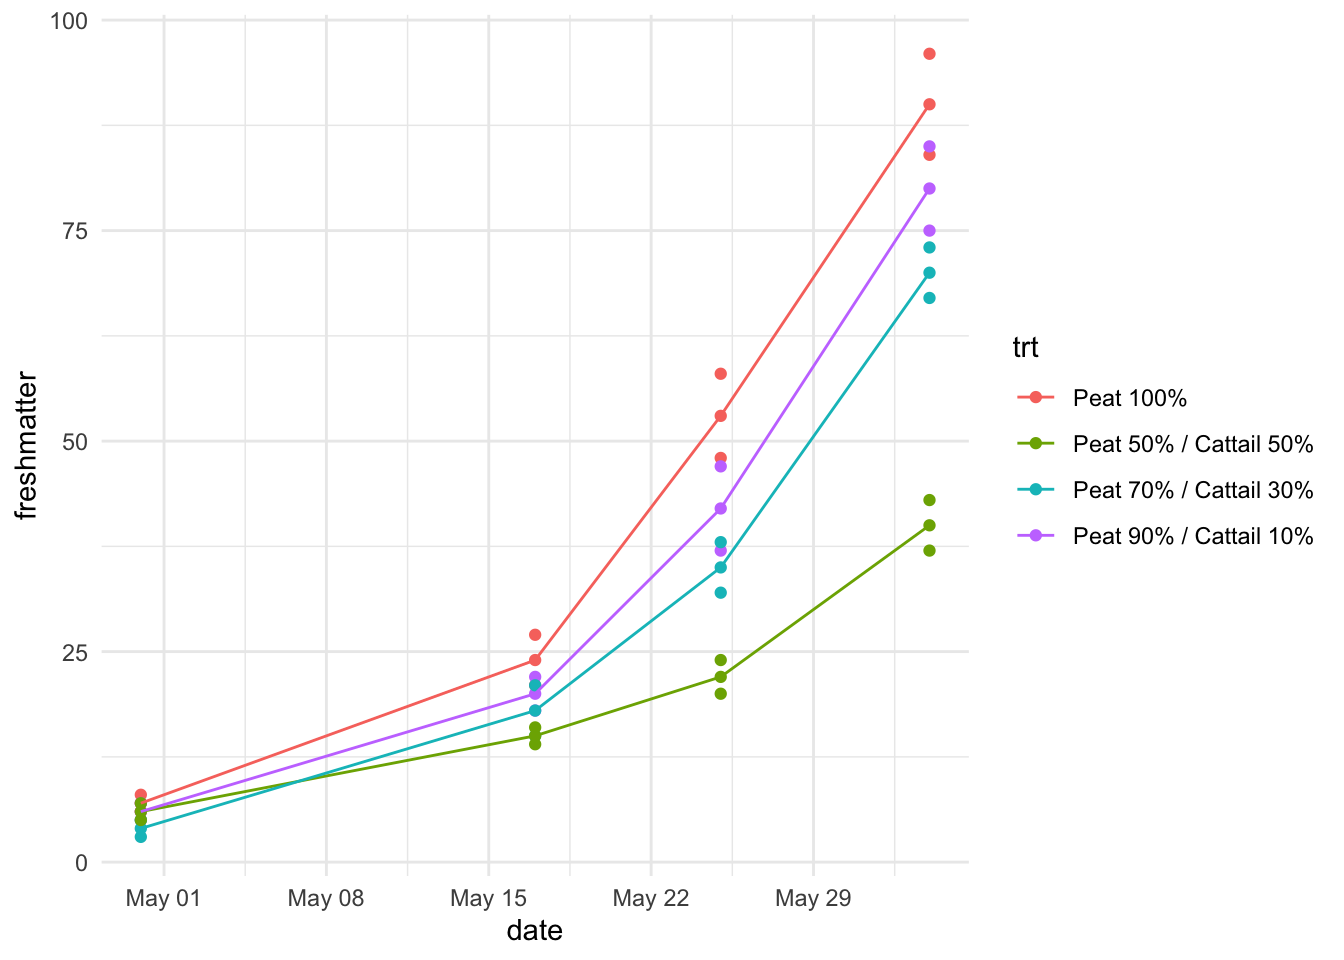
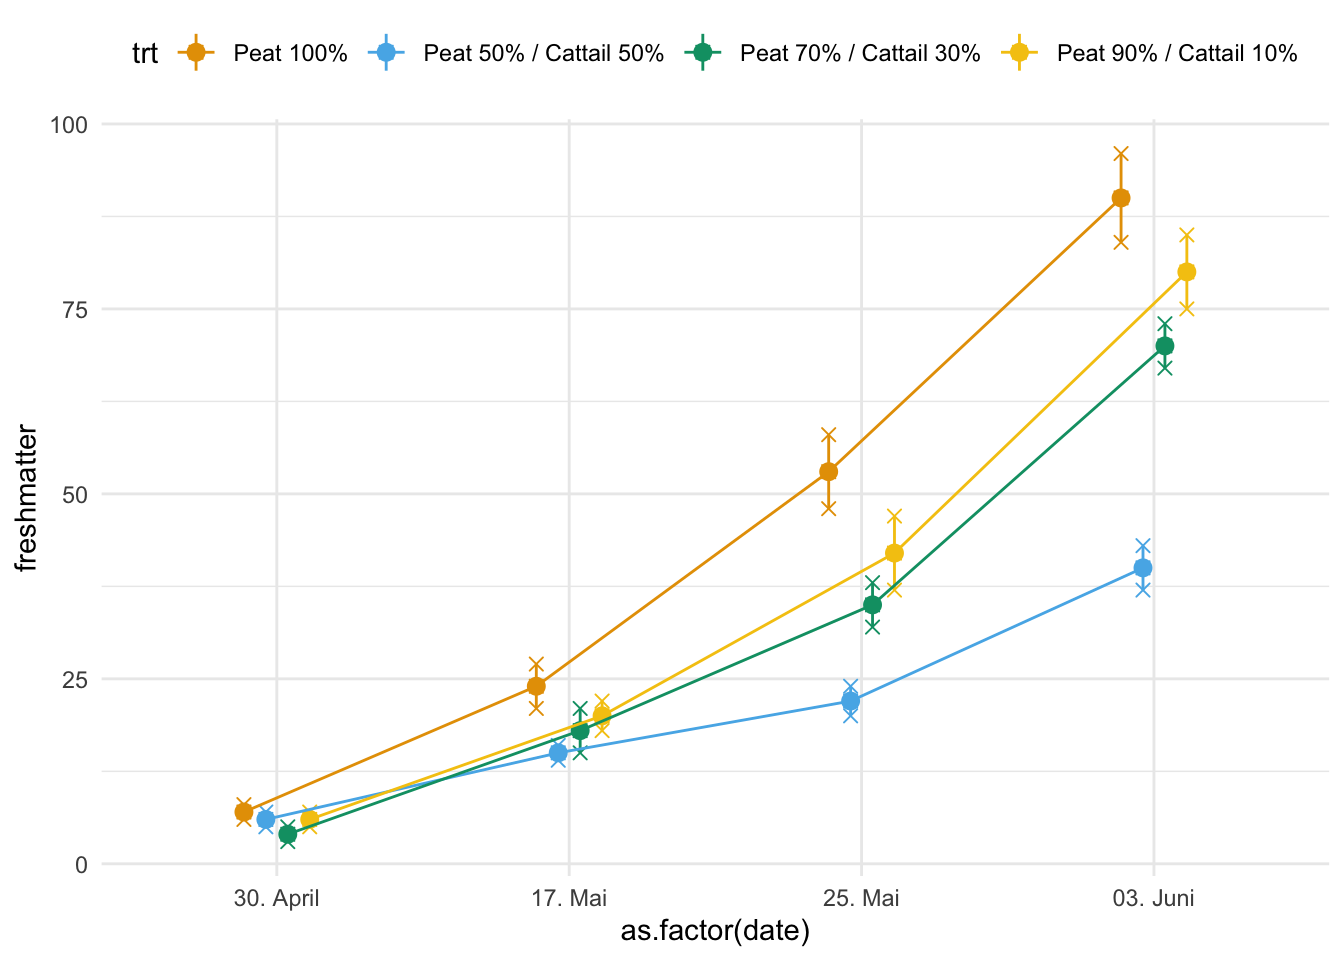
added example

diff --git a/docs/app-spielecke.html b/docs/app-spielecke.html
@@ -843,7 +843,7 @@ window.Quarto = {
 </header>
 
 
-<p><em>Letzte Änderung am 13. March 2024 um 11:25:23</em></p>
+<p><em>Letzte Änderung am 13. March 2024 um 12:00:34</em></p>
 <blockquote class="blockquote">
 <p><em>“Denn, um es endlich auf einmal herauszusagen, der Mensch spielt nur, wo er in voller Bedeutung des Worts Mensch ist, und er ist nur da ganz Mensch, wo er spielt.” — Friedrich Schiller</em></p>
 </blockquote>
@@ -941,7 +941,7 @@ c         |       89.45</code></pre>
 <div class="sourceCode cell-code" id="cb15"><pre class="sourceCode r code-with-copy"><code class="sourceCode r"><span id="cb15-1"><a href="#cb15-1" aria-hidden="true" tabindex="-1"></a>fit_mfp<span class="sc">$</span>formula</span></code><button title="In die Zwischenablage kopieren" class="code-copy-button"><i class="bi"></i></button></pre></div>
 <div class="cell-output cell-output-stdout">
 <pre><code>freshmass ~ I((k_in_shoot/10)^3) + I((k_in_shoot/10)^3 * log((k_in_shoot/10)))
-&lt;environment: 0x13b32d9a8&gt;</code></pre>
+&lt;environment: 0x1315ce780&gt;</code></pre>
 </div>
 </div>
 <div class="cell">
@@ -1082,10 +1082,16 @@ Abbildung&nbsp;73.4— Ursprüngliche Abbildung, die nachgebaut werden soll. Ein
 </div>
 <div class="cell">
 <div class="sourceCode cell-code" id="cb27"><pre class="sourceCode r code-with-copy"><code class="sourceCode r"><span id="cb27-1"><a href="#cb27-1" aria-hidden="true" tabindex="-1"></a>time_shoot_tbl <span class="sc">|&gt;</span> </span>
-<span id="cb27-2"><a href="#cb27-2" aria-hidden="true" tabindex="-1"></a>  <span class="fu">ggplot</span>(<span class="fu">aes</span>(date, freshmatter, <span class="at">color =</span> trt)) <span class="sc">+</span></span>
+<span id="cb27-2"><a href="#cb27-2" aria-hidden="true" tabindex="-1"></a>  <span class="fu">ggplot</span>(<span class="fu">aes</span>(<span class="fu">as.factor</span>(date), freshmatter, <span class="at">color =</span> trt, <span class="at">group =</span> trt)) <span class="sc">+</span></span>
 <span id="cb27-3"><a href="#cb27-3" aria-hidden="true" tabindex="-1"></a>  <span class="fu">theme_minimal</span>() <span class="sc">+</span></span>
-<span id="cb27-4"><a href="#cb27-4" aria-hidden="true" tabindex="-1"></a>  <span class="fu">geom_point</span>() <span class="sc">+</span></span>
-<span id="cb27-5"><a href="#cb27-5" aria-hidden="true" tabindex="-1"></a>  <span class="fu">stat_summary</span>(<span class="at">fun =</span> <span class="st">"mean"</span>, <span class="at">fun.min =</span> <span class="st">"min"</span>, <span class="at">fun.max =</span> <span class="st">"max"</span>, <span class="at">geom =</span> <span class="st">"line"</span>)</span></code><button title="In die Zwischenablage kopieren" class="code-copy-button"><i class="bi"></i></button></pre></div>
+<span id="cb27-4"><a href="#cb27-4" aria-hidden="true" tabindex="-1"></a>  <span class="fu">geom_jitter</span>(<span class="at">position=</span><span class="fu">position_dodge</span>(<span class="fl">0.3</span>), <span class="at">shape =</span> <span class="dv">4</span>, <span class="at">size =</span> <span class="dv">2</span>) <span class="sc">+</span></span>
+<span id="cb27-5"><a href="#cb27-5" aria-hidden="true" tabindex="-1"></a>  <span class="fu">stat_summary</span>(<span class="at">fun.data=</span><span class="st">"mean_sdl"</span>, <span class="at">fun.args =</span> <span class="fu">list</span>(<span class="at">mult =</span> <span class="dv">1</span>), </span>
+<span id="cb27-6"><a href="#cb27-6" aria-hidden="true" tabindex="-1"></a>               <span class="at">geom=</span><span class="st">"pointrange"</span>, <span class="at">position=</span><span class="fu">position_dodge</span>(<span class="fl">0.3</span>))  <span class="sc">+</span></span>
+<span id="cb27-7"><a href="#cb27-7" aria-hidden="true" tabindex="-1"></a>  <span class="fu">stat_summary</span>(<span class="at">fun =</span> <span class="st">"mean"</span>, <span class="at">fun.min =</span> <span class="st">"min"</span>, <span class="at">fun.max =</span> <span class="st">"max"</span>, <span class="at">geom =</span> <span class="st">"line"</span>,</span>
+<span id="cb27-8"><a href="#cb27-8" aria-hidden="true" tabindex="-1"></a>               <span class="at">position=</span><span class="fu">position_dodge</span>(<span class="fl">0.3</span>)) <span class="sc">+</span></span>
+<span id="cb27-9"><a href="#cb27-9" aria-hidden="true" tabindex="-1"></a>  <span class="fu">theme</span>(<span class="at">legend.position =</span> <span class="st">"top"</span>) <span class="sc">+</span></span>
+<span id="cb27-10"><a href="#cb27-10" aria-hidden="true" tabindex="-1"></a>  <span class="fu">scale_x_discrete</span>(<span class="at">labels =</span> <span class="fu">c</span>(<span class="st">"30. April"</span>, <span class="st">"17. Mai"</span>, <span class="st">"25. Mai"</span>, <span class="st">"03. Juni"</span>)) <span class="sc">+</span> </span>
+<span id="cb27-11"><a href="#cb27-11" aria-hidden="true" tabindex="-1"></a>  <span class="fu">scale_color_okabeito</span>()</span></code><button title="In die Zwischenablage kopieren" class="code-copy-button"><i class="bi"></i></button></pre></div>
 <div class="cell-output-display">
 <div>
 <figure class="figure">
@@ -2086,7 +2092,7 @@ window.document.addEventListener("DOMContentLoaded", function (event) {
 </div>
   </div>
 </footer>
-<script>var lightboxQuarto = GLightbox({"closeEffect":"zoom","loop":false,"openEffect":"zoom","selector":".lightbox","descPosition":"bottom"});
+<script>var lightboxQuarto = GLightbox({"selector":".lightbox","descPosition":"bottom","closeEffect":"zoom","loop":false,"openEffect":"zoom"});
 window.onload = () => {
   lightboxQuarto.on('slide_before_load', (data) => {
     const { slideIndex, slideNode, slideConfig, player, trigger } = data;
